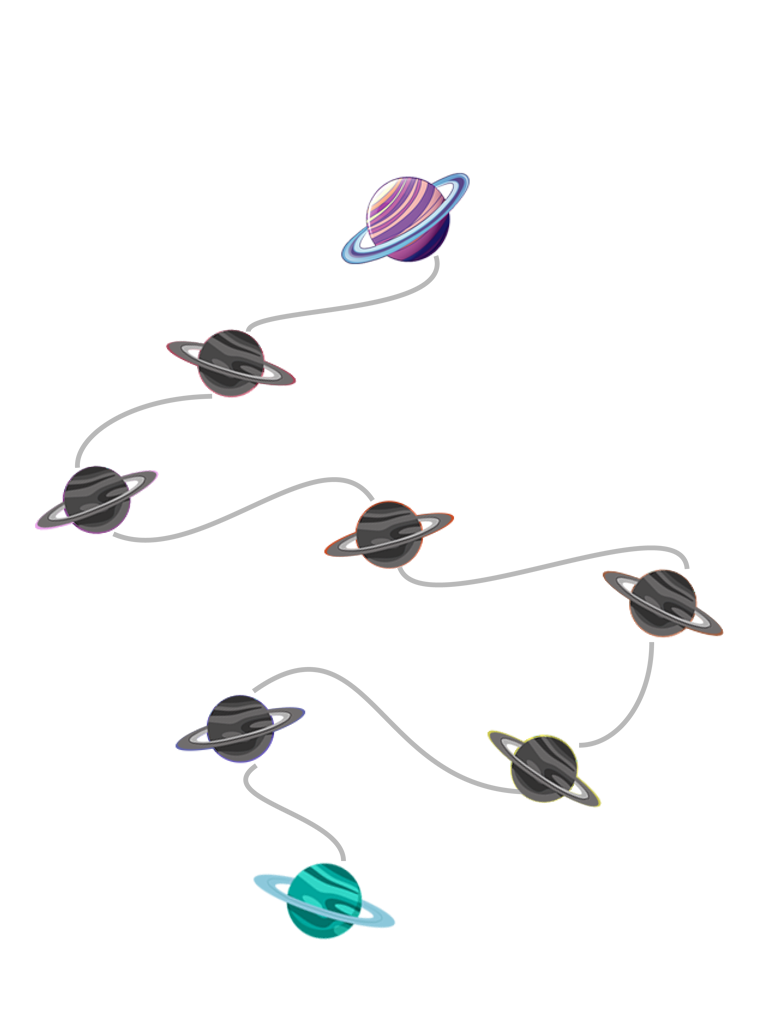
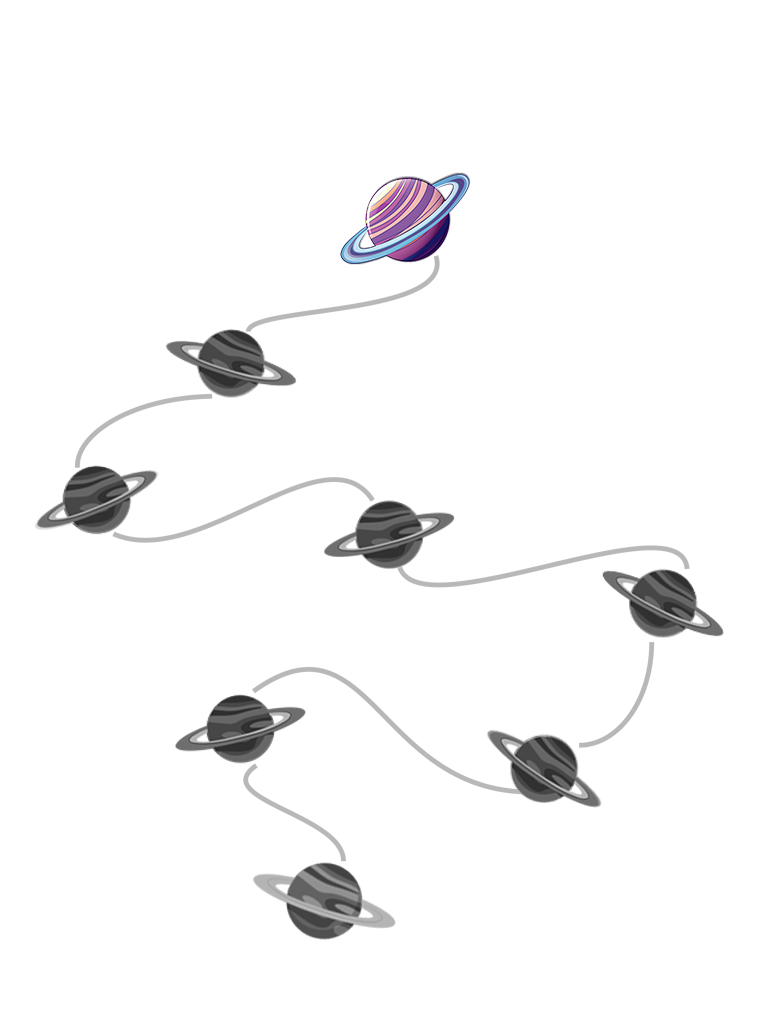
change design of background and change instruction site to stages site

Changed region(s): [[0.3125, 0.8438, 0.5312, 0.9375], [0.4375, 0.1562, 0.625, 0.25], [0.5625, 0.5, 0.5938, 0.5312]]

diff --git a/background.html b/background.html
@@ -26,12 +26,13 @@
 
 <div class="title">
     <img class="title_image" src="img/other/instruction.png" alt="Space radar">
-    <img class="title_image" id="computational" src="img/other/computational.jpg"
+    <img class="title_image" id="computational" src="img/other/computational1.png"
          alt="Computational Thinking Brain">
     <img class="brain_decomposition" id="brain1" src="img/other/brain_decomposition.png" alt="Decomposition">
     <img class="brain_abstraction" id="brain2" src="img/other/brain_abstraction.png" alt="Abstraction">
     <img class="brain_pattern" id="brain3" src="img/other/brain_pattern.png" alt="Pattern Recognition">
     <img class="brain_algorithm" id="brain4" src="img/other/brain_algorithm.png" alt="Algorithm">
+    <p id="description">Computational thinking describes a field in education that deals with a set of problem-solving methods. Click on each brain part to read more.</p>
 
     <div class="Brain">
         <img class="brain_image" id="21" src="img/other/brain.png" alt="Computational Thinking Brain">
@@ -51,7 +52,7 @@
     </div>
     <div class="col-sm-6">
         <a href="appv2.html">
-            <button class="info-btn">Play</button>
+            <button class="info-btn yellow">Play</button>
         </a>
     </div>
 </div>

diff --git a/css/checkpoints.css b/css/checkpoints.css
@@ -1,14 +1,14 @@
 body{
-    background: url("../img/other/background.png") no-repeat center center fixed;
-     background-size: cover;
-    -webkit-background-size: cover;
-    -moz-background-size: cover;
-    -o-background-size: cover;
-    /*background-size: cover;*/
+  background: url("../img/other/back_static.jpg") no-repeat center center fixed;
+  background-size: cover;
+ -webkit-background-size: cover;
+ -moz-background-size: cover;
+ -o-background-size: cover;
+ /*background-size: cover;*/
 }
 
 #checkpoints {
-    width: 100%;
+    width: 103%;
 }
 
 .container {
@@ -17,11 +17,18 @@ body{
   }
 
   .title {
+    margin-top: 5%;
       text-align: center;
       position: absolute;
       top: 2%;
-      left: 32%;
+      left: 20%;
       color: white;
+      font-family: 'Chewy', cursive;
+  }
+
+  .title h1 {
+font-size: 5.5vw !important;
+    letter-spacing: 0.1em;
   }
   .planet1 {
     position: absolute;
@@ -78,4 +85,10 @@ body{
     left: 35%;
     width: 15%;
     height: 10%;
+  }
+  .home img {
+    position: absolute;
+    width: 10%;
+    margin-left: 5%;
+    bottom: 3%
   }

diff --git a/js/other.js b/js/other.js
@@ -83,6 +83,7 @@ brain1.click(function () {
     hideImgs();
     if (createdDiv === false) {
         addTextDivs();
+        $("#description").hide();
         createdDiv = true;
     }
     $(".brain1_colour").attr("src", "img/other/brain_decomposition_colour.png");
@@ -100,6 +101,7 @@ brain2.click(function () {
     hideImgs();
     if (createdDiv === false) {
         addTextDivs();
+        $("#description").hide();
         createdDiv = true;
     }
     $(".brain1_colour").attr("src", "img/other/brain_decomposition_grey.png");
@@ -116,6 +118,7 @@ brain3.click(function () {
     hideImgs();
     if (createdDiv === false) {
         addTextDivs();
+        $("#description").hide();
         createdDiv = true;
     }
     $(".brain1_colour").attr("src", "img/other/brain_decomposition_grey.png");
@@ -132,6 +135,7 @@ brain4.click(function () {
     hideImgs();
     if (createdDiv === false) {
         addTextDivs();
+        $("#description").hide();
         createdDiv = true;
     }
     $(".brain1_colour").attr("src", "img/other/brain_decomposition_grey.png");

diff --git a/checkpoint.html b/checkpoint.html
@@ -22,7 +22,7 @@
 <body>
 <div class="container">
     <img src="img/other/checkpoints_grey.png" id="checkpoints">
-    <div class="title"><h1>Planets Overview</h1></div>
+    <div class="title"><h1>Planet Stages Overview</h1></div>
     <div class="planet1"></div>
     <div class="planet2"></div>
     <div class="planet3"></div>
@@ -32,5 +32,6 @@
     <div class="planet7"></div>
     <div class="planet8"></div>
 </div>
+<div class="home"><a href="landingpage.html"><img src="img/other/back.png" alt="Back home button"></div>
 </body>
 </html>

diff --git a/landingpage.html b/landingpage.html
@@ -30,8 +30,8 @@
         <div class="container">
             <div class="row">
                 <div class="col-sm-6">
-                    <a href="instruction.html">
-                        <button class="info-btn pull-right">Instruction</button>
+                    <a href="checkpoint.html">
+                        <button class="info-btn pull-right">Stages</button>
                     </a>
                 </div>
                 <div class="col-sm-6">

diff --git a/css/other.css b/css/other.css
@@ -77,6 +77,11 @@ body{
 
 }
 
+.yellow {
+    color: #343F4B !important;
+    background-color: #FFBA5C;
+}
+
 /* ====== BACKGROUND ====== */
 
 .Brain {
@@ -254,6 +259,17 @@ margin-bottom: 25%;
     color: white;
     margin-top: 5%
 }
+
+.title #description {
+    text-align: center;
+    color: white;
+    position: absolute;
+    margin-top: -32%;
+    font-size: 2vw;
+    width: 55%;
+    margin-left: 23%;
+}
+
 
 .game-button {
     margin-top: 15%;

diff --git a/css/app-advance.css b/css/app-advance.css
@@ -313,6 +313,12 @@ body {
     margin-left:6%
 }
 
+
+.answers {
+    margin-top: -1%;
+    margin-left: 30%;
+}
+
 /*
 #modalImage {
     padding: 15px
